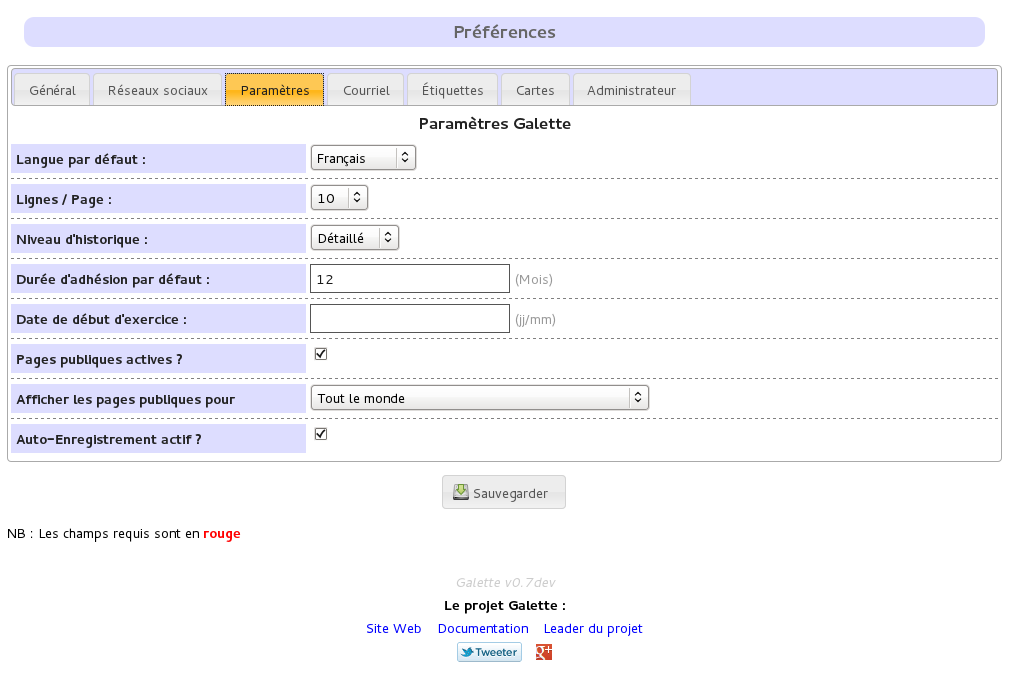
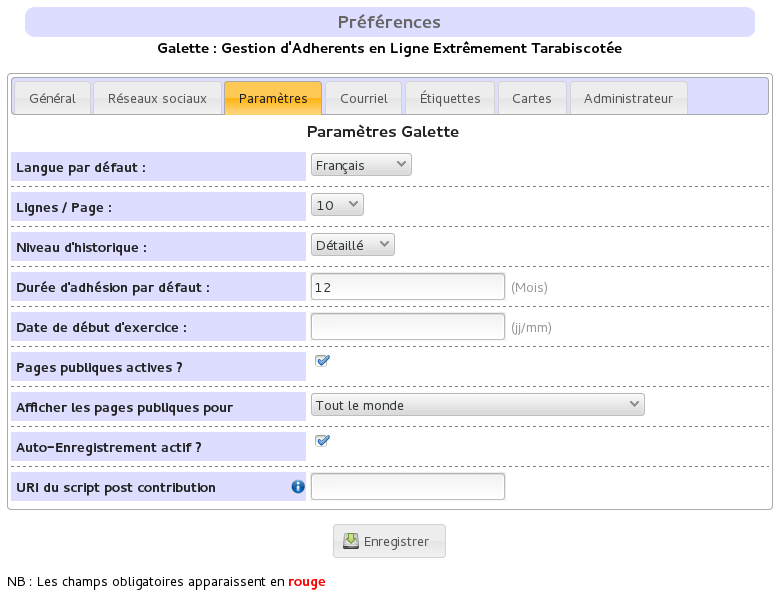
Documentation des paramètres des préférences manquants

Changed region(s): [[0.0, 0.0, 1.0, 0.841], [0.0, 0.8721, 0.647, 0.9967], [0.647, 0.5295, 0.7086, 0.5607]]

diff --git a/source/usermanual/preferences.rst b/source/usermanual/preferences.rst
@@ -44,14 +44,32 @@ Paramètres de Galette :
 * **Langue par défaut** : choix de la langue par défaut de l'application,
 * **Thème par défaut** : choix du thème à utiliser,
 * **Lignes/page** : nombre de lignes à afficher par défaut pour la pagination,
-* **Niveau d'historique** : modifie le niveau de l'historique : 
+* **Niveau d'historique** : modifie le niveau de l'historique :
 
   * **Désactivé** : l'historique est complètement désactivé,
   * **Normal** : historique activé,
   * **Détaillé** : historique activé, mais plus verbeux.
 
 * **Durée d'adhésion** : durée maximale d'une adhésion,
-* **Date de début d'exercice** : date du début de l'exercice pour l'association
+* **Date de début d'exercice** : date du début de l'exercice pour l'association,
+* **Pages publiques actives** : active ou désactive l'affichage des pages publiques,
+* **Affichaer les pages publiques pour** : définit quels utilisateurs ont accès aux pages publiques. Vous pouvez choisir entre :
+
+  * **Tout le monde**, y compris les utilisateurs qui ne sont pas authentifiés,
+  * **Adhérents à jour**,
+  * **Administrateurs et membres du bureau**,
+
+* **Auto-enregistrement actif** : active ou désactive la page d'auto enregistrement,
+* **URI du script post contribution** : l'URI d'un script qui sera appelé après l'enregistrement d'une nouvelle contribution. Plusieurs préfixes sont possibles, qui vont définir la méthode à utiliser :
+
+  * **galette://** : appel d'un script fourni par Galette, qui sera appelé avec la méthode HTTP POST. Le chemin doit être relatif à l'installation de Galette. Par exemple, L'URI du script d'exemple qui se trouve dans ``galette/post_contribution_test.php`` sera `galette://post_contribution_test.php`.
+  * **get://** ou **post://** : utilisation de la méthode HTTP GET ou HTTP POST. Dans ces deux cas de figure, le préfixe sera automatiquement rempalcé par ``http://`` par Galette,
+  * **file://** : appel d'un fichier sur le serveur, le chemin complet doit être fourni, le script de destination doit être exécutable et fournir au besoin le shellbang nécessaire. Un courriel qui contiendra les informations sur la contribution, ainsi que le retour du script sera envoyé à l'administrateur en cas de problème. Le fonctionnement est pareil à celui de cron : si le script renvoie quelque chose, un courriel est envoyé.
+
+.. warning::
+
+   L'utilisation de la méthode ``file://`` est potentiellement dangereuse, Galette se contente de lancer l'exécution du script fourni ; le bon fonctionnement et la sécurisation de ce script qui sera appelé tel quel par le logiciel sont votre **entière responsabilité**.
+
 
 Courriel
 ========
